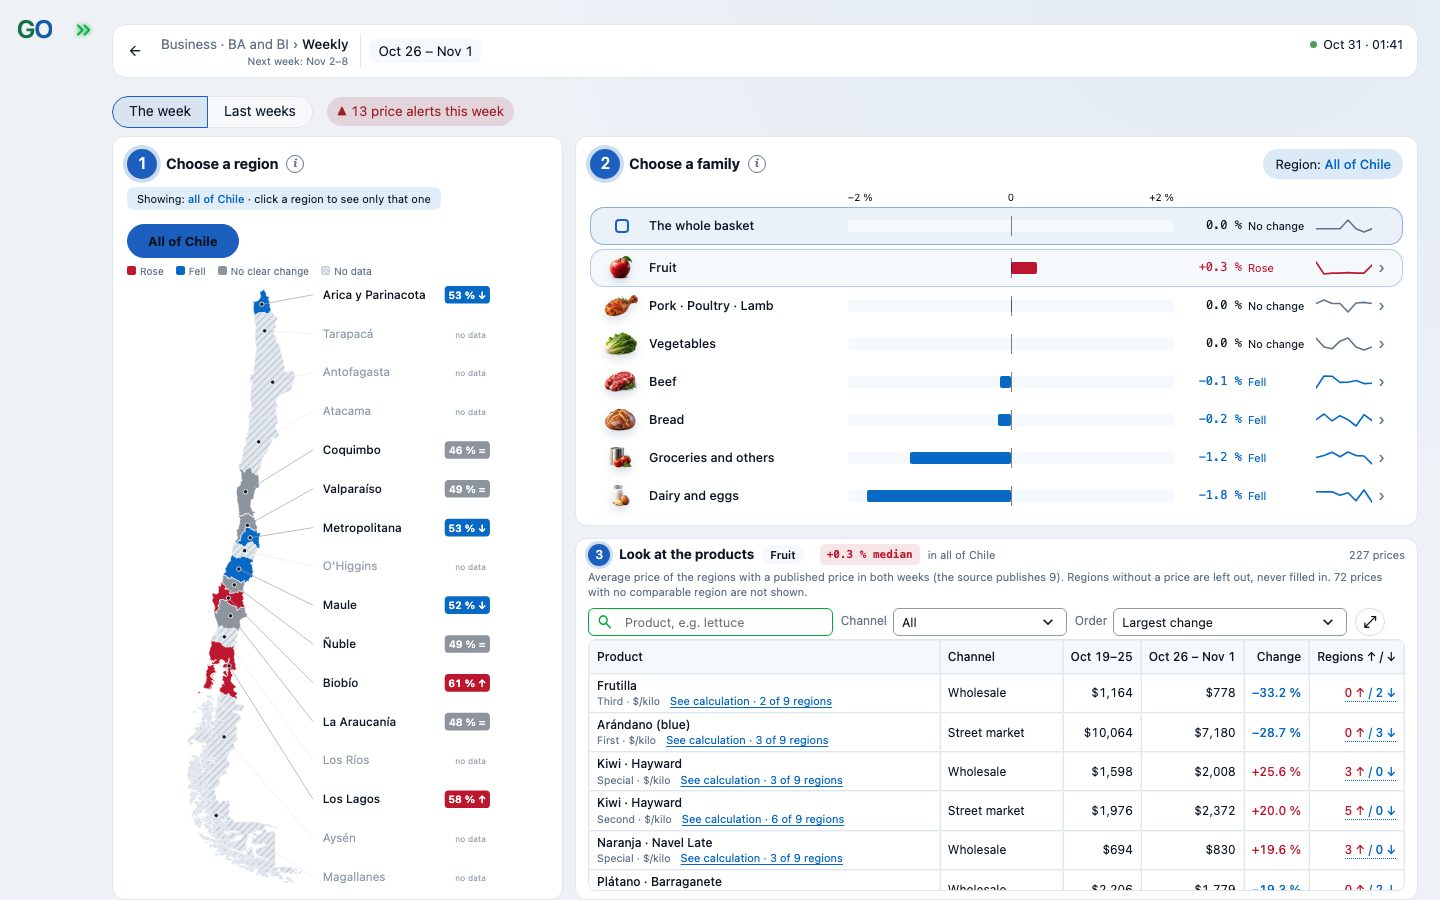
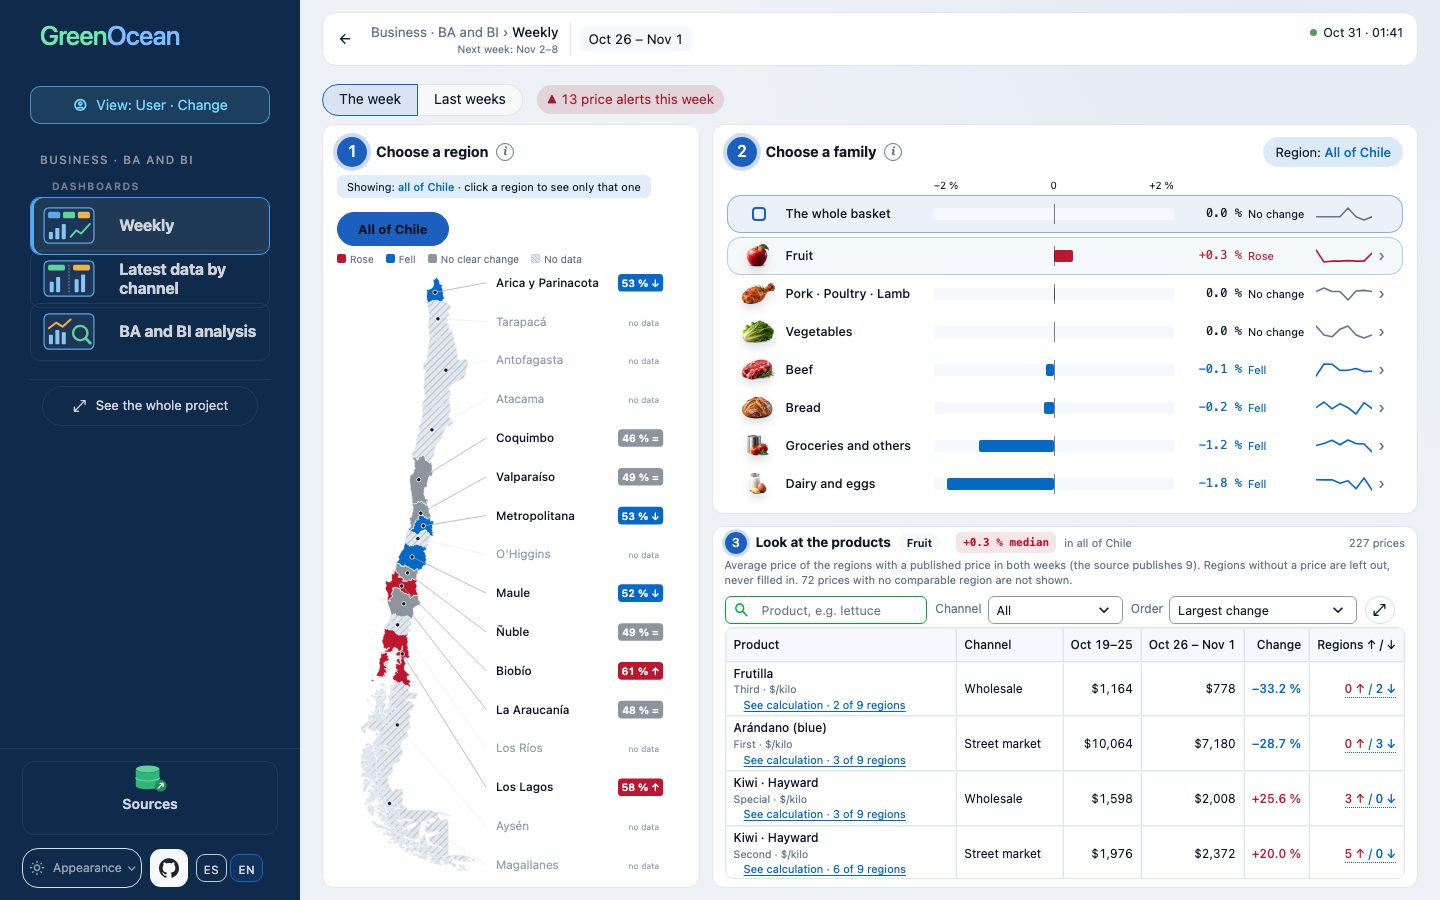
fix(menu): la app abre con el menú abierto y se pliega al ir a un dashboard o a una página de diagramas (D-463)
La primera página de la visita deja el menú abierto. Se pliega una vez
al ir a los tres dashboards o a las páginas de diagramas (Pipeline y
linaje, Modelo de datos, Stack y evidencia, Mapa de la app,
Arquitectura de seguridad, Git workflow y Centro de operación). Con el
menú plegado, el botón va bajo el logo y la página empieza a 68 px.
La prueba de la palabra «robot» ya no lee los bytes de las capturas.

diff --git a/bi/dashboard.py b/bi/dashboard.py
@@ -2250,7 +2250,9 @@ def show_app_header(window):
     /* D-462: with the menu folded, the page starts at the top, to the right of the logo and its unfold button, instead
        of leaving a band under them. */
     .stApp:has([data-testid="stSidebar"][data-collapsed="true"]) [data-testid="stMainBlockContainer"] {{padding-top:12px !important;
-        padding-left:112px !important;}}
+        padding-left:68px !important;}}
+    /* D-463: folded, the unfold button sits under the logo, not beside it, so the page needs only a narrow margin. */
+    [data-testid="stExpandSidebarButton"] {{position:fixed !important; left:20px; top:56px; z-index:1000;}}
     .reading-guide {{font-size:.8rem; margin:5px 0 14px; color:{palette['text']};}}
     .reading-term {{font-size:inherit; margin-left:0; border-bottom:1px dotted currentColor; font-weight:400;}}
     .regional-detail {{width:100%; font-size:.75rem; border-collapse:collapse;}}
@@ -8340,6 +8342,8 @@ DASHBOARD_FOLD_SCRIPT = r"""<script>
 (() => {
     const view = "__VIEW__";
     const fold = "__FOLD__" === "yes";
+    // D-463: the app opens with its menu open; it folds only on going to a dashboard or a diagram
+    if (window.__goFoldedView === undefined) { window.__goFoldedView = view; return; }
     if (window.__goFoldedView === view) return;
     window.__goFoldedView = view;
     if (!fold || window.matchMedia("(orientation: landscape) and (max-height: 500px)").matches) return;
@@ -8359,8 +8363,9 @@ DASHBOARD_FOLD_SCRIPT = r"""<script>
 
 
 def show_dashboard_menu_fold(view, mode):
-    """D-462: on the three dashboards the menu folds on opening and its button beats in green; elsewhere it stays."""
-    is_dashboard = view in DASHBOARD_TILES
+    """D-462, D-463: on going to a dashboard or a page of diagrams the menu folds and its button beats in green;
+    elsewhere it stays. The first page of the visit keeps it open."""
+    is_dashboard = view in FOLD_MENU_VIEWS
     if is_dashboard:
         green = ba_green(mode)
         st.markdown(
@@ -9113,6 +9118,17 @@ FOLDER_TILE_BLOCK = "documentos"
 SOURCES_TILE_BLOCK = "fuentes"
 # D-442, D-452, D-453: the two dashboards are tiles, not lines, at the head of «Negocio · BA y BI».
 DASHBOARD_TILES = [PAGE_HOME, PAGE_CHANNELS, PAGE_BA]
+# D-463: the pages whose dashboards or diagrams want the width: the menu folds on going to them.
+FOLD_MENU_VIEWS = [
+    *DASHBOARD_TILES,
+    PAGE_DIAGRAMS,
+    PAGE_ARCHITECTURE,
+    PAGE_STACK,
+    PAGE_APP_MAP,
+    PAGE_SECURITY,
+    PAGE_GIT,
+    PAGE_RUNS,
+]
 TILE_BLOCKS = {FOLDER_TILE_BLOCK, SOURCES_TILE_BLOCK}
 # A dashboard in miniature: three figures over a bar chart and a line, in the colours of the charts.
 DASHBOARD_TILE_SVG = (

diff --git a/tests/test_menu_order.py b/tests/test_menu_order.py
@@ -187,7 +187,13 @@ def test_d462_a_dashboard_opens_with_the_menu_folded_and_its_button_beating_in_g
     assert 'sidebar.dataset.collapsed === "false"' in script  # how Streamlit marks the menu today
     assert "window.__goFoldedView === view" in script  # once per page opened: a menu opened by hand stays open
     assert "<" not in script.replace("<script>", "").replace("</script>", "").replace("tries++ <", "")
-    for view, folds in ((dashboard.HOME_PAGE, True), (dashboard.PAGE_BA, True), (dashboard.PAGE_DIAGRAMS, False)):
+    assert "window.__goFoldedView === undefined" in script  # D-463: the first page of the visit keeps the menu open
+    for view, folds in (
+        (dashboard.HOME_PAGE, True),
+        (dashboard.PAGE_BA, True),
+        (dashboard.PAGE_DIAGRAMS, True),
+        (dashboard.PAGE_OPERATIONS, False),
+    ):
         app = draw("profesional", view)
         assert not app.exception
         scripts = [str(block.proto.body) for block in app.get("html") if "__goFoldedView" in str(block.proto.body)]

diff --git a/tests/test_doc_diagrams.py b/tests/test_doc_diagrams.py
@@ -46,7 +46,9 @@ def test_every_document_diagram_is_used_by_a_document():
 def test_d205_each_view_is_one_html_document_without_script(name, mode):
     page = doc_diagrams.DOC_DIAGRAMS[name](mode)
     assert page.startswith("<!doctype html>") and "<script" not in page
-    assert "robot" not in page.lower() and name in doc_diagrams.HEIGHTS
+    # the word, not the bytes of an embedded image: a capture's base64 can spell it by chance
+    words = re.sub(r"data:[^\"')\s]+", "", page).lower()
+    assert "robot" not in words and name in doc_diagrams.HEIGHTS
 
 
 def graph_lines(page):

diff --git a/docs/negocio/PRD.md b/docs/negocio/PRD.md
@@ -4,7 +4,7 @@
 |---|---|
 | Proyecto | GreenOcean |
 | Tipo de documento | Documento de requisitos del producto (PRD) |
-| Versión | 3.27 |
+| Versión | 3.28 |
 | Fecha | 02-11-2026 |
 | Estado | Vigente |
 | Responsable | El autor |
@@ -149,7 +149,7 @@ Con la carga del 31-10-2026, la base tiene 821.072 precios semanales en 252 sema
 
 Estas son seis capturas reales, del 02-11-2026, de cinco páginas principales y en los cuatro temas de color. El dashboard Semanal aparece dos veces: como lo ve el Usuario y como lo ve el Profesional. El tema oscuro es el de entrada.
 
-- **Menú:** cinco secciones: Negocio · BA y BI, Ingeniería de datos, DevOps y seguridad, Stack y evidencia, y Calidad. La primera reúne, bajo el título «Dashboards», tres recuadros con ícono de dashboard, que siguen a la vista aunque la sección se pliegue: Semanal, Último dato por canal y Análisis BA y BI (D-442, D-452, D-453, D-456, D-459). Los tres abren con el menú plegado, para dar el ancho a sus gráficos, y el botón que lo abre palpita en verde (D-462).
+- **Menú:** cinco secciones: Negocio · BA y BI, Ingeniería de datos, DevOps y seguridad, Stack y evidencia, y Calidad. La primera reúne, bajo el título «Dashboards», tres recuadros con ícono de dashboard, que siguen a la vista aunque la sección se pliegue: Semanal, Último dato por canal y Análisis BA y BI (D-442, D-452, D-453, D-456, D-459). La app abre con el menú abierto; al ir a un dashboard o a una página de diagramas, el menú se pliega para darles el ancho, y el botón que lo abre palpita en verde (D-462, D-463).
 - **Semanal:** se lee en tres pasos numerados. Primero se elige una región o todo Chile, después una familia, y al final se miran sus productos. Cada paso se abre al completar el anterior. Los tres pasos quedan siempre juntos en una sola pantalla; la tabla de productos llena el panel 3, se desplaza sola y se amplía con su propio botón (D-446, D-447).
 - **Último dato por canal:** una tarjeta por canal, con su ícono 3D en sus propios colores (D-453), su última semana, sus precios, su variación y las familias que publica. Cada tarjeta abre ese canal con los pasos del dashboard Semanal y se comporta igual que él, aunque la otra fuente todavía no publique esa semana (D-404 a D-406, D-452).
 - **Análisis BA y BI:** seis pestañas (D-456, D-457). «Mensual» es un período, los últimos 12 meses o un año, mes a mes: cinco cifras clave (cambio de precios, frente al IPC, brecha consumidor–mayorista, alertas de precio y mayor alza mensual), tres gráficos (precio mes a mes, cambio de cada mes y alertas de precio por mes) y la tabla por familia. «Histórico» es toda la historia, de enero 2022 al último mes que publicó el INE: cinco cifras clave (cambio desde enero 2022, frente al IPC, año de mayor alza, mes más barato y alertas de precio), tres gráficos (precio desde enero 2022, cambio de cada año y temporada) y la tabla por familia. Cada gráfico dice qué meses muestra, y su lupa verde lo abre en grande, con qué mide y qué se deduce; cada cifra explica al pasar el cursor cómo se calcula. Las otras cuatro son Precios e inflación, Insights, Interesados y Método. Sobre las pestañas, un recuadro verde dice qué se está viendo, de qué mes a qué mes y por qué empieza y termina ahí; cambia con la pestaña y el período (D-458).
@@ -247,3 +247,4 @@ Las siglas y los términos de este documento se definen en el [Glosario](GLOSARI
 | 3.25 | 02-11-2026 | Los tres dashboards de «Negocio · BA y BI» van bajo el título «Dashboards», y el primero, el de la semana, se llama «Semanal» (3.1 a 3.4, 4, 6, 7, D-459) |
 | 3.26 | 02-11-2026 | En «Análisis BA y BI» las tarjetas son más finas, los meses se leen en dos líneas cortas y una lupa verde abre cada gráfico en grande (7, D-460) |
 | 3.27 | 02-11-2026 | Los tres dashboards abren con el menú plegado y el botón que lo abre palpita en verde (7, D-462) |
+| 3.28 | 02-11-2026 | La app abre con el menú abierto; se pliega al ir a un dashboard o a una página de diagramas (7, D-463) |

diff --git a/docs/en/negocio/PRD.md b/docs/en/negocio/PRD.md
@@ -4,7 +4,7 @@
 |---|---|
 | Project | GreenOcean |
 | Document type | Product Requirements Document (PRD) |
-| Version | 3.27 |
+| Version | 3.28 |
 | Date | 2026-11-02 |
 | Status | Current |
 | Owner | The author |
@@ -149,7 +149,7 @@ With the load of 2026-10-31, the database holds 821,072 weekly prices over 252 w
 
 These are six real captures, of 2026-11-02, of five main pages and in the four color themes. The Weekly dashboard appears twice: as the User sees it and as the Professional sees it. The dark theme is the one on entry.
 
-- **Menu:** five sections: Business · BA and BI, Data engineering, DevOps and security, Stack and evidence, and Quality. The first gathers, under the title «Dashboards», three tiles with a dashboard icon, which stay in sight even when the section folds: Weekly, Latest data by channel and BA and BI analysis (D-442, D-452, D-453, D-456, D-459). The three open with the menu folded, to give their charts the width, and the button that opens it beats in green (D-462).
+- **Menu:** five sections: Business · BA and BI, Data engineering, DevOps and security, Stack and evidence, and Quality. The first gathers, under the title «Dashboards», three tiles with a dashboard icon, which stay in sight even when the section folds: Weekly, Latest data by channel and BA and BI analysis (D-442, D-452, D-453, D-456, D-459). The app opens with the menu open; on going to a dashboard or a page of diagrams the menu folds to give them the width, and the button that opens it beats in green (D-462, D-463).
 - **Weekly:** it reads in three numbered steps. First a region or all of Chile is chosen, then a family, and last its products are shown. Each step opens when the one before is done. The three steps always stay together on one screen; the products table fills panel 3, scrolls by itself and is enlarged with its own button (D-446, D-447).
 - **Latest data by channel:** one card per channel, with its 3D icon in its own colours (D-453), its latest week, its prices, its change and the families it publishes. Each card opens that channel with the steps of the Weekly dashboard and behaves exactly like it, even if the other source has not published that week yet (D-404 to D-406, D-452).
 - **BA and BI analysis:** six tabs (D-456, D-457). «Monthly» is one period, the last 12 months or one year, month by month: five key figures (price change, against the CPI, consumer–wholesale gap, price alerts and biggest monthly rise), three charts (price month by month, change of each month and price alerts by month) and the table by family. «Historical» is the whole history, from January 2022 to the last month the INE published: five key figures (change since January 2022, against the CPI, year of the biggest rise, cheapest month and price alerts), three charts (price since January 2022, change of each year and season) and the table by family. Each chart says which months it shows, and its green magnifier opens it large, with what it measures and what follows from it; each figure explains on hover how it is computed. The other four are Prices and inflation, Insights, Stakeholders and Method. Above the tabs, a green panel says what is being shown, from which month to which and why it starts and ends there; it follows the tab and the period (D-458).
@@ -247,3 +247,4 @@ The acronyms and terms of this document are defined in the [Glossary](GLOSARIO.m
 | 3.25 | 2026-11-02 | The three dashboards of «Business · BA and BI» go under the title «Dashboards», and the first, the week's, is called «Weekly» (3.1 to 3.4, 4, 6, 7, D-459) |
 | 3.26 | 2026-11-02 | In «BA and BI analysis» the cards are thinner, the months read in two short lines and a green magnifier opens each chart large (7, D-460) |
 | 3.27 | 2026-11-02 | The three dashboards open with the menu folded and the button that opens it beats in green (7, D-462) |
+| 3.28 | 2026-11-02 | The app opens with the menu open; it folds on going to a dashboard or a page of diagrams (7, D-463) |

diff --git a/docs/DECISIONES.md b/docs/DECISIONES.md
@@ -3755,3 +3755,14 @@ Desde D-279, el plan de capacidad y escalabilidad es un documento propio: `docs/
   - **Detalle de Streamlit:** esta versión marca el menú con `data-collapsed`, no con `aria-expanded`; el guion lee los dos.
 - **Medición (Playwright):** Semanal abre con el menú plegado y el botón latiendo; abierto a mano, sigue abierto; Pipeline y linaje no late; Análisis BA y BI se pliega otra vez.
 - **Pruebas:** `tests/test_menu_order.py::test_d462_a_dashboard_opens_with_the_menu_folded_and_its_button_beating_in_green`.
+
+## D-463 · La app abre con el menú abierto; se pliega al ir a un dashboard o a una página de diagramas
+
+- **Pedido del autor:** al abrir la app el menú debe estar abierto. El plegado automático de D-462 vale solo al ir a un dashboard o a cualquier página de diagramas. Y con el menú plegado no debe quedar un margen grande a la izquierda.
+- **Decisión:**
+  - **Apertura:** la primera página de la visita deja el menú abierto, también Semanal tras «Elige tu vista».
+  - **Plegado:** el menú se pliega una vez al ir a Semanal, Último dato por canal, Análisis BA y BI, Pipeline y linaje, Modelo de datos, Stack y evidencia, Mapa de la app, Arquitectura de seguridad, Git workflow o Centro de operación. Abierto a mano, sigue abierto en esa página. En esas páginas el botón palpita en verde.
+  - **Margen:** con el menú plegado, el botón que lo abre va bajo el logo, no a su lado, y la página empieza a 68 px del borde en vez de 112 px.
+- **Medición (Playwright):** «Elige tu vista» y Semanal abren con el menú abierto; Calidad y auditoría lo deja abierto; Pipeline y linaje lo pliega; Semanal, abierta desde el menú, lo pliega.
+- **Documentos:** PRD 3.28 (7) y las seis capturas, en los dos idiomas.
+- **Pruebas:** `tests/test_menu_order.py::test_d462_a_dashboard_opens_with_the_menu_folded_and_its_button_beating_in_green`, con la primera página y las de diagramas.
